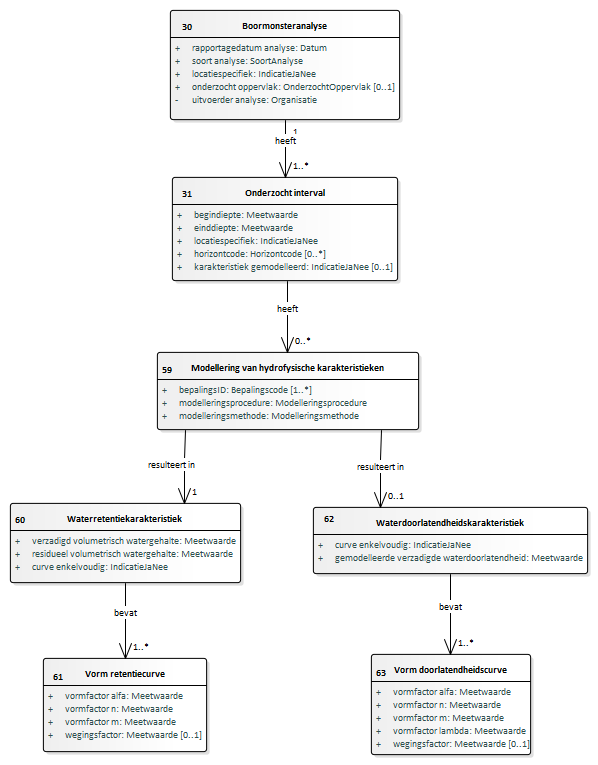
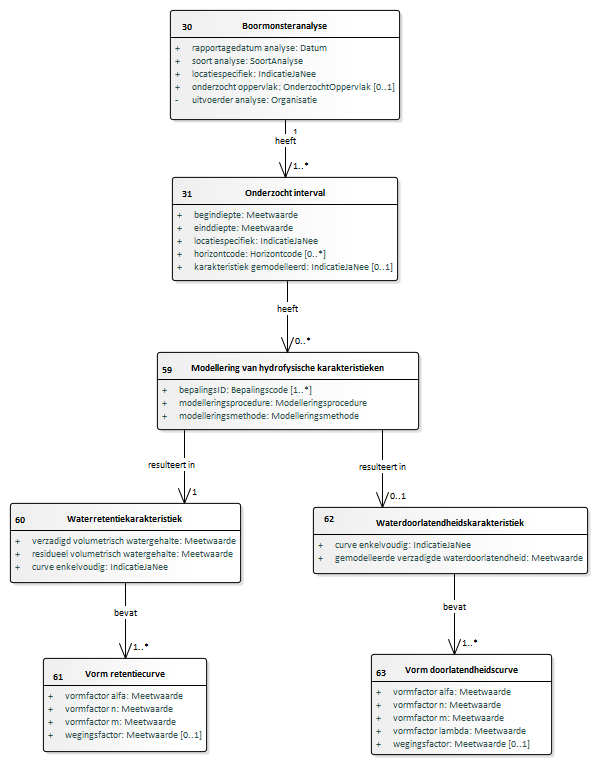
Conceptualmodel-BHR-Pconceptueel-MIM-2.02versie24maart2020metengels-3-20200810-20200811-134104

Changed region(s): [[0.6622, 0.7516, 0.9331, 0.9922], [0.602, 0.5712, 0.6923, 0.6614]]

diff --git a/data/BHR-P-cat.msword.html b/data/BHR-P-cat.msword.html
@@ -15,7 +15,7 @@
    <body>
       <p>Conceptual model/BHR-P conceptueel - MIM/20200810</p>
       <p>Imvertor: 1.61.2</p>
-      <p>Model release: Conceptualmodel-BHR-Pconceptueel-MIM-2.02versie24maart2020metengels-3-20200810-20200811-115152</p>
+      <p>Model release: Conceptualmodel-BHR-Pconceptueel-MIM-2.02versie24maart2020metengels-3-20200810-20200811-134104</p>
       <hr>
       <section>
          <h1>Artikel 1 Definitie van registratieobject, entiteiten en attributen</h1>
@@ -75,7 +75,7 @@
                </div>
                <div class="imageinfo overview"><img src="Images/EAID_CE320481_9F0A_4ab7_B678_33AE1565E3C7.png" usemap="#imagemap-EAID_CE320481_9F0A_4ab7_B678_33AE1565E3C7" alt="Diagram "><map name="imagemap-EAID_CE320481_9F0A_4ab7_B678_33AE1565E3C7"><area shape="rect" alt="Watergehalte en doorlatendheid bij bepaalde bodemvochtpotentiaal" coords="316,638,593,726" href="#graph_EAID_E396B552_D072_4cbd_A53D_CE28BF948F73"><area shape="rect" alt="Watergehalte en doorlatendheid bij een veranderende bodemvochtpotentiaal" coords="302,490,608,558" href="#graph_EAID_0CD81833_86C1_4dc8_9F2D_18E698F2B59F"><area shape="rect" alt="Waterretentiewaarde verdamping" coords="628,490,880,605" href="#graph_EAID_94C581FD_E79D_4f45_85BB_E72B98692E55"><area shape="rect" alt="Waterretentie verdamping" coords="683,379,880,442" href="#graph_EAID_0A90349F_5F19_454e_989D_08874F57FDFD"><area shape="rect" alt="Overzicht tensiometergegevens" coords="683,211,879,353" href="#graph_EAID_B005195A_6A9B_45e1_A42E_43A536E26CE3"><area shape="rect" alt="Bepaling watergehalte en doorlatendheid bij veranderende bodemvochtpotentiaal" coords="301,211,608,403" href="#graph_EAID_F723AF25_69F5_4641_9E9C_7965A8DCA679"><area shape="rect" alt="Waterretentiewaarde" coords="10,652,275,727" href="#graph_EAID_98116456_7428_494b_8847_F4238EDE247D"><area shape="rect" alt="Waterretentie" coords="10,525,275,590" href="#graph_EAID_318E226C_39F0_4e94_BF68_FF86ADC7A4CB"><area shape="rect" alt="Bepaling waterretentie stapsgewijs" coords="10,211,275,450" href="#graph_EAID_1B89AC72_862D_4faa_BB88_6A2F01273E9C"><area shape="rect" alt="Onderzocht interval" coords="169,98,399,130" href="#graph_EAID_E03DABD7_D5A7_43b1_8E45_22FE722A3256"><area shape="rect" alt="Boormonsteranalyse" coords="169,10,399,46" href="#graph_EAID_C497D0C8_A7FC_4280_82C3_3C866CAA23AB"></map><p><b>Domeinmodel bodemkundig booronderzoek- Boormonsteranalyse deel 3</b></p>
                </div>
-               <div class="imageinfo overview"><img src="Images/EAID_B4B00F21_40F2_4133_BDED_18FBA68DE030.png" usemap="#imagemap-EAID_B4B00F21_40F2_4133_BDED_18FBA68DE030" alt="Diagram "><map name="imagemap-EAID_B4B00F21_40F2_4133_BDED_18FBA68DE030"><area shape="rect" alt="Vorm doorlatendheidscurve" coords="371,654,531,755" href="#graph_EAID_C3A532B3_4A3F_45d1_9EE5_2AA7C2C3F150"><area shape="rect" alt="Waterdoorlatendheidskarakteristiek" coords="313,507,588,574" href="#graph_EAID_7BD6F226_F767_4801_9C55_4840AEDBE855"><area shape="rect" alt="Vorm retentiecurve" coords="43,658,207,752" href="#graph_EAID_2767D09C_8672_419c_8FDE_0BFA54675941"><area shape="rect" alt="Waterretentiekarakteristiek" coords="10,503,241,583" href="#graph_EAID_B88999F7_1698_4752_91ED_B6497B2577A4"><area shape="rect" alt="Modellering van hydrofysische karakteristieken" coords="157,352,419,430" href="#graph_EAID_821A8B98_A622_4063_90E4_B8755FC87107"><area shape="rect" alt="Onderzocht interval" coords="172,177,398,281" href="#graph_EAID_E03DABD7_D5A7_43b1_8E45_22FE722A3256"><area shape="rect" alt="Boormonsteranalyse" coords="170,10,400,120" href="#graph_EAID_C497D0C8_A7FC_4280_82C3_3C866CAA23AB"></map><p><b>Domeinmodel bodemkundig booronderzoek- Boormonsteranalyse deel 4</b></p>
+               <div class="imageinfo overview"><img src="Images/EAID_B4B00F21_40F2_4133_BDED_18FBA68DE030.png" usemap="#imagemap-EAID_B4B00F21_40F2_4133_BDED_18FBA68DE030" alt="Diagram "><map name="imagemap-EAID_B4B00F21_40F2_4133_BDED_18FBA68DE030"><area shape="rect" alt="Vorm doorlatendheidscurve" coords="371,654,552,755" href="#graph_EAID_C3A532B3_4A3F_45d1_9EE5_2AA7C2C3F150"><area shape="rect" alt="Waterdoorlatendheidskarakteristiek" coords="313,507,588,574" href="#graph_EAID_7BD6F226_F767_4801_9C55_4840AEDBE855"><area shape="rect" alt="Vorm retentiecurve" coords="43,658,207,752" href="#graph_EAID_2767D09C_8672_419c_8FDE_0BFA54675941"><area shape="rect" alt="Waterretentiekarakteristiek" coords="10,503,241,583" href="#graph_EAID_B88999F7_1698_4752_91ED_B6497B2577A4"><area shape="rect" alt="Modellering van hydrofysische karakteristieken" coords="157,352,419,430" href="#graph_EAID_821A8B98_A622_4063_90E4_B8755FC87107"><area shape="rect" alt="Onderzocht interval" coords="172,177,398,281" href="#graph_EAID_E03DABD7_D5A7_43b1_8E45_22FE722A3256"><area shape="rect" alt="Boormonsteranalyse" coords="170,10,400,120" href="#graph_EAID_C497D0C8_A7FC_4280_82C3_3C866CAA23AB"></map><p><b>Domeinmodel bodemkundig booronderzoek- Boormonsteranalyse deel 4</b></p>
                </div>
             </section>
          </section>
